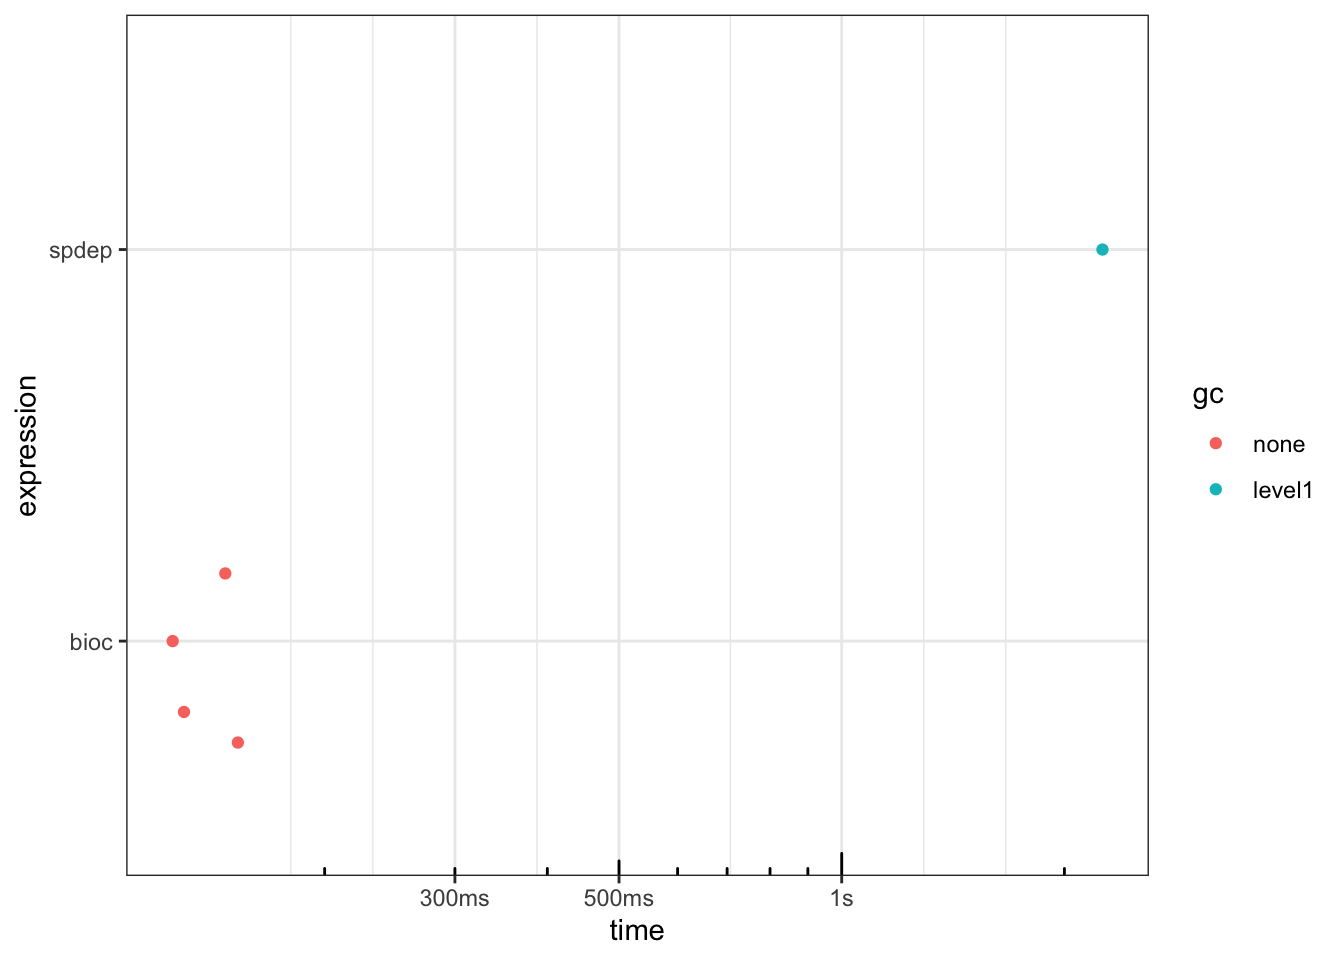
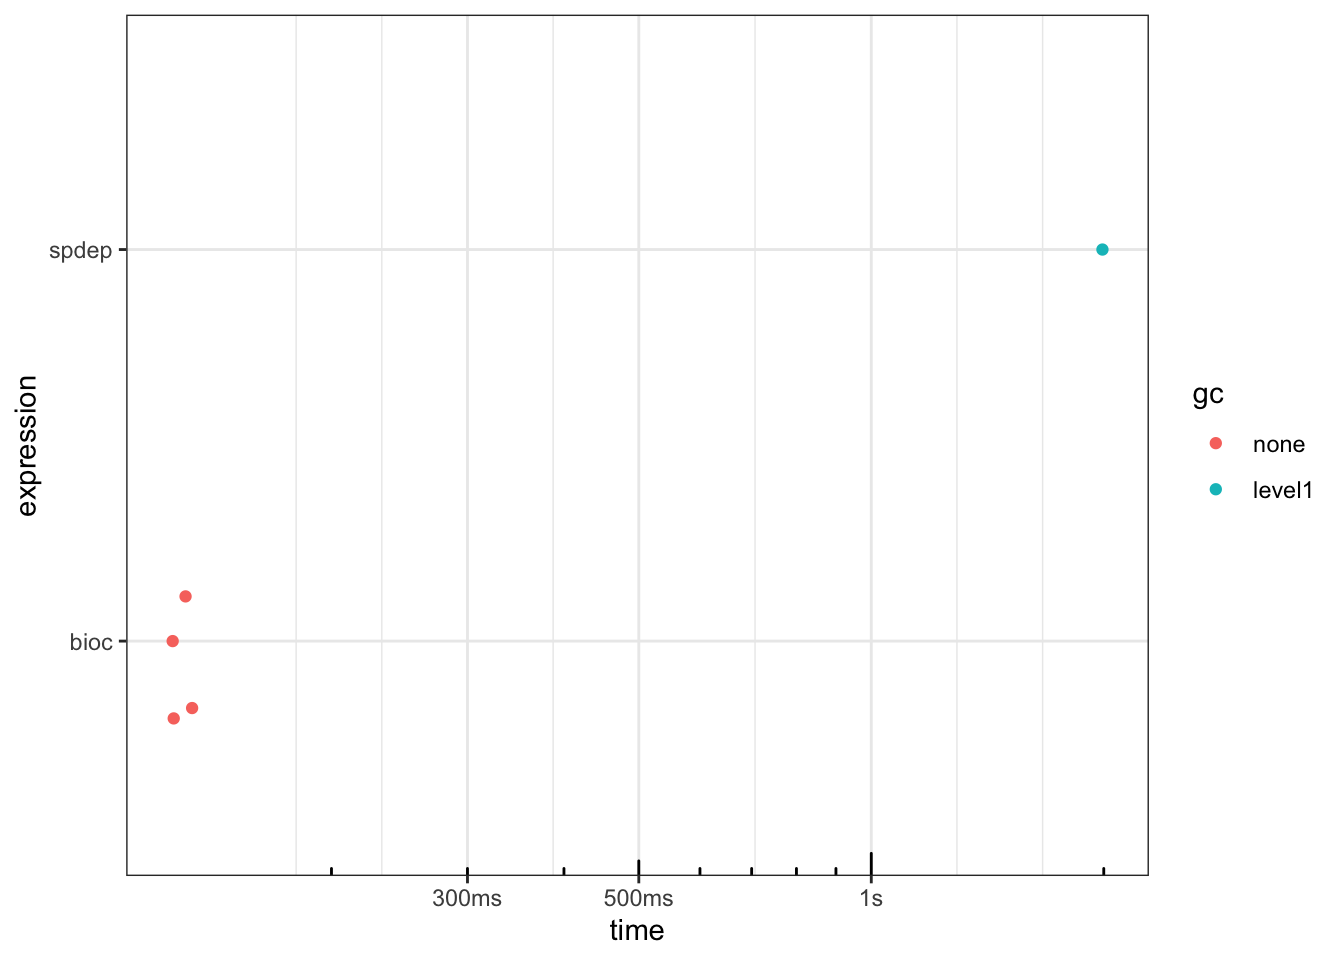
snafu

diff --git a/docs/index.html b/docs/index.html
@@ -153,7 +153,7 @@ ul.task-list li input[type="checkbox"] {
 <!-- margin-sidebar -->
     <div id="quarto-margin-sidebar" class="sidebar margin-sidebar">
         
-    <h5 class="quarto-listing-category-title">Categories</h5><div class="quarto-listing-category category-default"><div class="category" data-category="">All <span class="quarto-category-count">(9)</span></div><div class="category" data-category="R">R <span class="quarto-category-count">(4)</span></div><div class="category" data-category="cycling">cycling <span class="quarto-category-count">(4)</span></div><div class="category" data-category="spatial-omics">spatial-omics <span class="quarto-category-count">(4)</span></div></div></div>
+    <h5 class="quarto-listing-category-title">Categories</h5><div class="quarto-listing-category category-default"><div class="category" data-category="">All <span class="quarto-category-count">(8)</span></div><div class="category" data-category="R">R <span class="quarto-category-count">(4)</span></div><div class="category" data-category="cycling">cycling <span class="quarto-category-count">(4)</span></div><div class="category" data-category="spatial-omics">spatial-omics <span class="quarto-category-count">(4)</span></div></div></div>
 <!-- main -->
 <main class="content quarto-banner-title-block column-page-left" id="quarto-document-content">
 
@@ -166,29 +166,46 @@ ul.task-list li input[type="checkbox"] {
 
 <div class="quarto-listing quarto-listing-container-default" id="listing-listing">
 <div class="list quarto-listing-default">
-<div class="quarto-post image-right" data-index="0" data-listing-file-modified-sort="1679284756608" data-listing-reading-time-sort="4.735">
+<div class="quarto-post image-right" data-index="0" data-categories="R,spatial-omics" data-listing-date-sort="1682492400000" data-listing-file-modified-sort="1682591836234" data-listing-reading-time-sort="31.205">
 <div class="thumbnail">
-<a href="./posts/2023-03-18-tour-of-four-canyons/index.html">
+<a href="./posts/2023-04-26-voyager-1-2-0/index.html">
 <div class="thumbnail-image">
 
 </div>
-</a><p><a href="./posts/2023-03-18-tour-of-four-canyons/index.html"></a></p>
+</a><p><a href="./posts/2023-04-26-voyager-1-2-0/index.html"></a></p>
 </div>
 <div class="body">
-<a href="./posts/2023-03-18-tour-of-four-canyons/index.html">
+<a href="./posts/2023-04-26-voyager-1-2-0/index.html">
 <h3 class="no-anchor listing-title">
-Untitled
+Voyager 1.2.0
 </h3>
 <div class="listing-subtitle">
 
 </div>
+</a>
+<div class="listing-categories">
+<div class="listing-category" onclick="window.quartoListingCategory('R'); return false;">
+R
+</div>
+<div class="listing-category" onclick="window.quartoListingCategory('spatial-omics'); return false;">
+spatial-omics
+</div>
+</div>
+<a href="./posts/2023-04-26-voyager-1-2-0/index.html">
 <div class="listing-description">
-There’s so much more to life than family heritage. To those not conforming to family and heritage, asking about it really hurts. It’s not just me with Asperger’s. It’s not…
+Space, the current frontier. <del>These are the voyages of starship Voyager.</del> This is the second release of R package <code>Voyager</code> wi…<sup></sup><code></code>
 </div>
 </a>
 </div>
 <div class="metadata">
-<a href="./posts/2023-03-18-tour-of-four-canyons/index.html"> </a>
+<a href="./posts/2023-04-26-voyager-1-2-0/index.html">
+<div class="listing-date">
+Apr 26, 2023
+</div>
+<div class="listing-author">
+Lambda Moses
+</div>
+</a>
 </div>
 </div>
 <div class="quarto-post image-right" data-index="1" data-categories="R,spatial-omics" data-listing-date-sort="1679727600000" data-listing-file-modified-sort="1679873849979" data-listing-reading-time-sort="16.285">
@@ -233,49 +250,7 @@ Lambda Moses
 </a>
 </div>
 </div>
-<div class="quarto-post image-right" data-index="2" data-categories="R,spatial-omics" data-listing-date-sort="1679036400000" data-listing-file-modified-sort="1682591301563" data-listing-reading-time-sort="31.205">
-<div class="thumbnail">
-<a href="./posts/2023-04-26-voyager-1-2-0/index.html">
-<div class="thumbnail-image">
-
-</div>
-</a><p><a href="./posts/2023-04-26-voyager-1-2-0/index.html"></a></p>
-</div>
-<div class="body">
-<a href="./posts/2023-04-26-voyager-1-2-0/index.html">
-<h3 class="no-anchor listing-title">
-Voyager 1.2.0
-</h3>
-<div class="listing-subtitle">
-
-</div>
-</a>
-<div class="listing-categories">
-<div class="listing-category" onclick="window.quartoListingCategory('R'); return false;">
-R
-</div>
-<div class="listing-category" onclick="window.quartoListingCategory('spatial-omics'); return false;">
-spatial-omics
-</div>
-</div>
-<a href="./posts/2023-04-26-voyager-1-2-0/index.html">
-<div class="listing-description">
-Space, the current frontier. <del>These are the voyages of starship Voyager.</del> This is the second release of R package <code>Voyager</code> wi…<sup></sup><code></code>
-</div>
-</a>
-</div>
-<div class="metadata">
-<a href="./posts/2023-04-26-voyager-1-2-0/index.html">
-<div class="listing-date">
-Mar 17, 2023
-</div>
-<div class="listing-author">
-Lambda Moses
-</div>
-</a>
-</div>
-</div>
-<div class="quarto-post image-right" data-index="3" data-categories="R,spatial-omics" data-listing-date-sort="1679036400000" data-listing-file-modified-sort="1679180202498" data-listing-reading-time-sort="30.04">
+<div class="quarto-post image-right" data-index="2" data-categories="R,spatial-omics" data-listing-date-sort="1679036400000" data-listing-file-modified-sort="1679180202498" data-listing-reading-time-sort="30.04">
 <div class="thumbnail">
 <p><a href="./posts/2023-03-17-multispati-part-1/index.html"> <img src="https://raw.githubusercontent.com/pachterlab/voyager/documentation/vignettes/tissue_lowres_5a.jpeg" class="thumnail-image"> </a></p>
 </div>
@@ -313,7 +288,7 @@ Lambda Moses
 </a>
 </div>
 </div>
-<div class="quarto-post image-right" data-index="4" data-categories="R,spatial-omics" data-listing-date-sort="1678003200000" data-listing-file-modified-sort="1678152679011" data-listing-reading-time-sort="16.06">
+<div class="quarto-post image-right" data-index="3" data-categories="R,spatial-omics" data-listing-date-sort="1678003200000" data-listing-file-modified-sort="1678152679011" data-listing-reading-time-sort="16.06">
 <div class="thumbnail">
 <a href="./posts/2023-03-05-seurat-vs-scanpy-pca/index.html">
 <div class="thumbnail-image">
@@ -355,7 +330,7 @@ Lambda Moses
 </a>
 </div>
 </div>
-<div class="quarto-post image-right" data-index="5" data-categories="cycling" data-listing-date-sort="1677398400000" data-listing-file-modified-sort="1678844142383" data-listing-reading-time-sort="26.595">
+<div class="quarto-post image-right" data-index="4" data-categories="cycling" data-listing-date-sort="1677398400000" data-listing-file-modified-sort="1678844142383" data-listing-reading-time-sort="26.595">
 <div class="thumbnail">
 <p><a href="./posts/2023-03-14-palm-trees-snowy-peaks-and-sepulveda-mud/index.html"> <img src="https://media.pixelfed.social/public/m/_v2/529845376367415532/42a8ecf32-5a8865/E72ayLvv7Jeq/kW9Ti5Ayw1cbkftVOumnnCHDJ3mQYIxlMqpe2AJN.jpg" class="thumnail-image"> </a></p>
 </div>
@@ -390,7 +365,7 @@ Lambda Moses
 </a>
 </div>
 </div>
-<div class="quarto-post image-right" data-index="6" data-categories="cycling" data-listing-date-sort="1676966400000" data-listing-file-modified-sort="1678066788148" data-listing-reading-time-sort="32.53">
+<div class="quarto-post image-right" data-index="5" data-categories="cycling" data-listing-date-sort="1676966400000" data-listing-file-modified-sort="1678066788148" data-listing-reading-time-sort="32.53">
 <div class="thumbnail">
 <p><a href="./posts/2023-02-21-where-the-big-jet-engines-roar/index.html"> <img src="https://media.pixelfed.social/public/m/_v2/529845376367415532/0fca8ea69-e1c06b/q6Je91RZFlS3/Byy511tPwfvjbUNxk7iyg1DbPcO2A7M0n7ELwJb1.jpg" class="thumnail-image"> </a></p>
 </div>
@@ -425,7 +400,7 @@ Lambda Moses
 </a>
 </div>
 </div>
-<div class="quarto-post image-right" data-index="7" data-categories="cycling" data-listing-date-sort="1676880000000" data-listing-file-modified-sort="1676885339255" data-listing-reading-time-sort="30.87">
+<div class="quarto-post image-right" data-index="6" data-categories="cycling" data-listing-date-sort="1676880000000" data-listing-file-modified-sort="1676885339255" data-listing-reading-time-sort="30.87">
 <div class="thumbnail">
 <p><a href="./posts/2023-02-20-east-side-riders/index.html"> <img src="./posts/2023-02-20-east-side-riders/esr-2023-02-11.jpg" class="thumnail-image"> </a></p>
 </div>
@@ -460,7 +435,7 @@ Lambda Moses
 </a>
 </div>
 </div>
-<div class="quarto-post image-right" data-index="8" data-categories="cycling" data-listing-date-sort="1676361600000" data-listing-file-modified-sort="1676440096225" data-listing-reading-time-sort="6.51">
+<div class="quarto-post image-right" data-index="7" data-categories="cycling" data-listing-date-sort="1676361600000" data-listing-file-modified-sort="1676440096225" data-listing-reading-time-sort="6.51">
 <div class="thumbnail">
 <p><a href="./posts/2023-02-14-watercolor-sky/index.html"> <img src="https://dgtzuqphqg23d.cloudfront.net/Y_6fLz9gzBbrN3YE4TAR_ihFkTHsYLCqC1CGDvMDSuA-2048x1536.jpg" class="thumnail-image"> </a></p>
 </div>

diff --git a/docs/posts/2023-04-26-voyager-1-2-0/index.html b/docs/posts/2023-04-26-voyager-1-2-0/index.html
@@ -7,7 +7,7 @@
 <meta name="viewport" content="width=device-width, initial-scale=1.0, user-scalable=yes">
 
 <meta name="author" content="Lambda Moses">
-<meta name="dcterms.date" content="2023-03-17">
+<meta name="dcterms.date" content="2023-04-26">
 
 <title>These R the Voyages - Voyager 1.2.0</title>
 <style>
@@ -208,7 +208,7 @@ div.csl-indent {
       <div>
       <div class="quarto-title-meta-heading">Published</div>
       <div class="quarto-title-meta-contents">
-        <p class="date">March 17, 2023</p>
+        <p class="date">April 26, 2023</p>
       </div>
     </div>
     
@@ -784,8 +784,8 @@ disabled.</code></pre>
 <pre><code># A tibble: 2 × 6
   expression      min   median `itr/sec` mem_alloc `gc/sec`
   &lt;bch:expr&gt; &lt;bch:tm&gt; &lt;bch:tm&gt;     &lt;dbl&gt; &lt;bch:byt&gt;    &lt;dbl&gt;
-1 bioc       124.62ms 137.94ms     7.23         NA     0   
-2 spdep         2.25s    2.25s     0.444        NA     1.33</code></pre>
+1 bioc       124.56ms  127.2ms     7.83         NA     0   
+2 spdep         1.99s    1.99s     0.502        NA     1.51</code></pre>
 </div>
 </div>
 <div class="cell">
